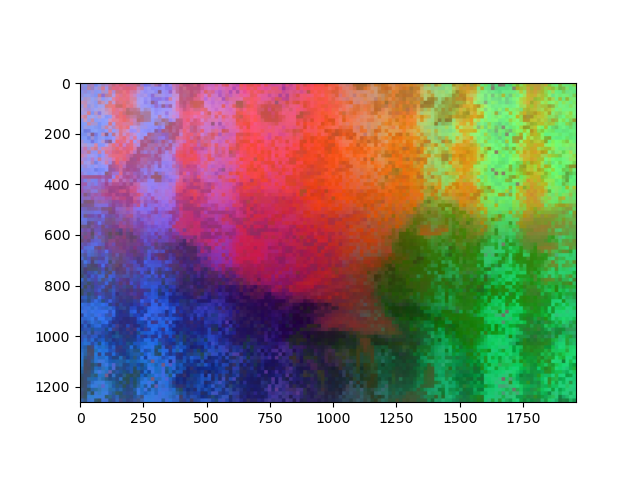
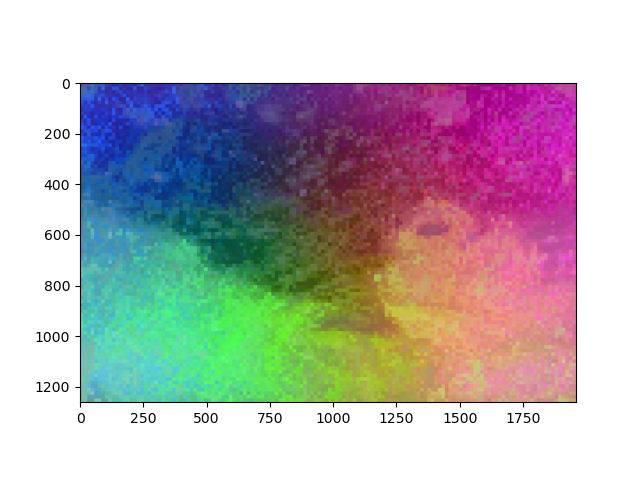
use dinov2_reg much better

diff --git a/BaseWVN/utils/dinov2_interface.py b/BaseWVN/utils/dinov2_interface.py
@@ -16,16 +16,16 @@ class Dinov2Interface:
         self._model_type = model_type
         # Initialize DINOv2
         if self._model_type == "vit_small":
-            self.model=torch.hub.load('facebookresearch/dinov2', 'dinov2_vits14')
+            self.model=torch.hub.load('facebookresearch/dinov2', 'dinov2_vits14_reg')
             self.embed_dim = 384
         elif self._model_type == "vit_base":
-            self.model=torch.hub.load('facebookresearch/dinov2', 'dinov2_vitb14')
+            self.model=torch.hub.load('facebookresearch/dinov2', 'dinov2_vitb14_reg')
             self.embed_dim = 768
         elif self._model_type == "vit_large":
-            self.model=torch.hub.load('facebookresearch/dinov2', 'dinov2_vitl14')
+            self.model=torch.hub.load('facebookresearch/dinov2', 'dinov2_vitl14_reg')
             self.embed_dim = 1024
         elif self._model_type == "vit_huge":
-            self.model=torch.hub.load('facebookresearch/dinov2', 'dinov2_vitg14')
+            self.model=torch.hub.load('facebookresearch/dinov2', 'dinov2_vitg14_reg')
             self.embed_dim = 1536
         self.patch_size = kwargs.get("patch_size", 14)
         # Send to device

diff --git a/BaseWVN/utils/feat_extractor.py b/BaseWVN/utils/feat_extractor.py
@@ -248,8 +248,8 @@ def test_extractor():
     import cv2
     import os
     import time
-    image_relative_path = 'image/hiking.png'  # Update to the relative path of your image
-    feat_relative_path = 'image/hiking_feat.png'
+    image_relative_path = 'image/forest_clean.png'  # Update to the relative path of your image
+    feat_relative_path = 'image/forest_clean_feat.png'
     # Use os.path.join to get the full path of the image
     image_path = os.path.join(WVN_ROOT_DIR, image_relative_path)
     device = 'cuda' if torch.cuda.is_available() else 'cpu'
